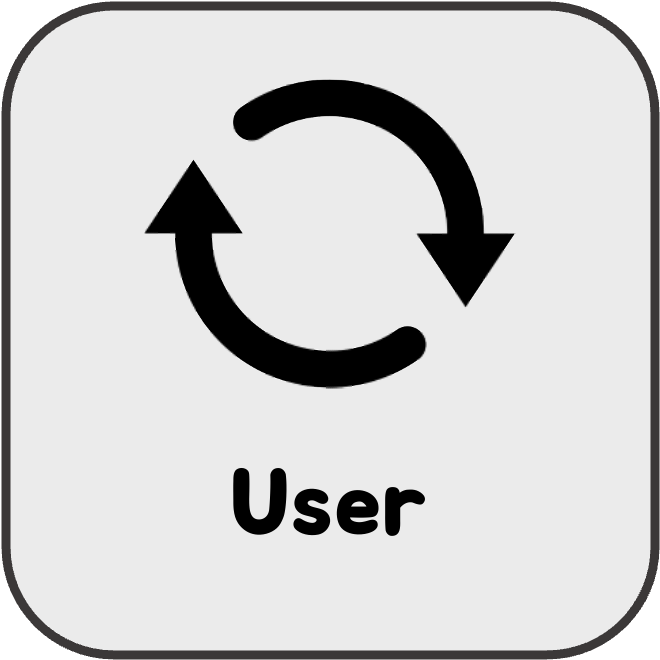
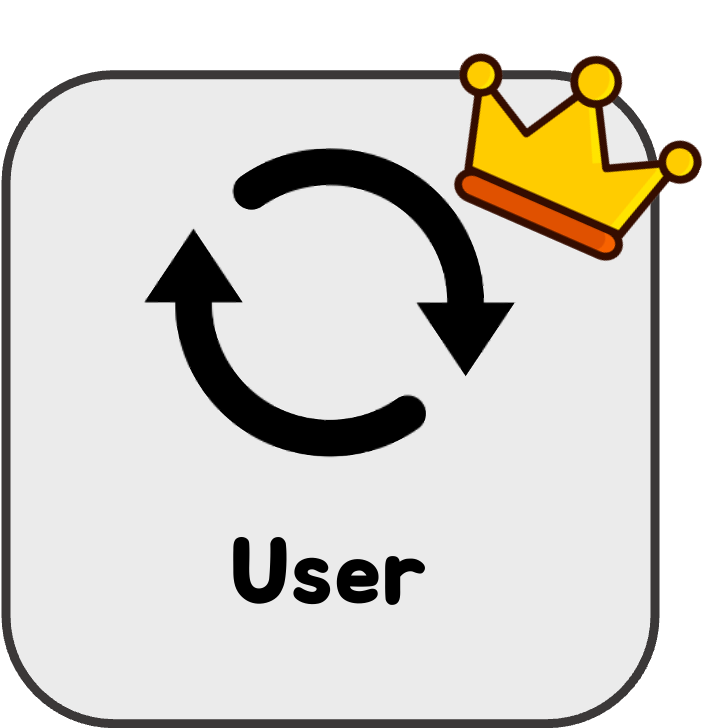
이미지 가운데 이동으로인한 crop 수정, 결제창, 프리미엄 아이콘 업뎃

diff --git a/photoeditor.py b/photoeditor.py
@@ -23,13 +23,13 @@ current_image = None
 undo_history, redo_history = [], []
 start_x, start_y = None, None
 convert = 0
-dot_positions = []
 crop_start_x, crop_start_y = None, None
 crop_end_x, crop_end_y = None, None
 current_x, current_y = None, None
 image_captured = None
 cursor = 1
 userid, username, userversion = None, None, None
+x_offset, y_offset = 0, 0
 
 
 def photoeditormain(id="admin", name="관리자", version="Premium"):
@@ -195,6 +195,7 @@ def photoeditormain(id="admin", name="관리자", version="Premium"):
             return file_path
 
     def center_image_on_canvas(canvas, image_tk):
+        global x_offset, y_offset
         # 캔버스의 크기 가져오기
         canvas_width = canvas.winfo_width()
         canvas_height = canvas.winfo_height()
@@ -209,6 +210,8 @@ def photoeditormain(id="admin", name="관리자", version="Premium"):
 
         # 이미지를 캔버스 중앙에 배치
         canvas.coords(image_layer, x, y)
+        x_offset = -x
+        y_offset = -y
 
     def update_image(new_image):
         global image_tk, layer_ids, current_image, image_size, image_layer
@@ -298,7 +301,7 @@ def photoeditormain(id="admin", name="관리자", version="Premium"):
             canvas.create_rectangle(crop_start_x, crop_start_y, current_x, current_y, outline='black', tags='rectangle')
 
     def drag(event):
-        global dot_positions, crop_start_x, crop_start_y, current_x, current_y
+        global crop_start_x, crop_start_y, current_x, current_y
         # 현재 마우스 위치 저장
         current_x, current_y = event.x, event.y
         draw_rectangle()
@@ -339,12 +342,17 @@ def photoeditormain(id="admin", name="관리자", version="Premium"):
         canvas.bind("<ButtonRelease-1>", released)  # 마우스 왼쪽 버튼을 놓았을 때 crop 종료 좌표를 기록하고, 해당 영역을 잘라냅니다.
 
     def image_crop():
-        global crop_start_x, crop_start_y, crop_end_x, crop_end_y, cursor
+        global crop_start_x, crop_start_y, crop_end_x, crop_end_y, cursor, x_offset, y_offset
         if crop_start_x is not None and crop_start_y is not None and crop_end_x is not None and crop_end_y is not None:
             min_x = min(crop_start_x, crop_end_x)
             max_x = max(crop_start_x, crop_end_x)
             min_y = min(crop_start_y, crop_end_y)
             max_y = max(crop_start_y, crop_end_y)
+
+            min_x += x_offset
+            max_x += x_offset
+            min_y += y_offset
+            max_y += y_offset
 
             cropped_image = current_image.crop((min_x, min_y, max_x, max_y))
             update_image(cropped_image)
@@ -686,9 +694,9 @@ def photoeditormain(id="admin", name="관리자", version="Premium"):
     create_button(button1_frame, "icon//icon_rotate45CCW.png", 90, rotate_45CCW, 125, 35)
     create_button(button1_frame, "icon//icon_rotate90CW.png", 90, rotate_90CW, 25, 135)
     create_button(button1_frame, "icon//icon_rotate90CCW.png", 90, rotate_90CCW, 125, 135)
-    create_button(button1_frame, "icon//icon_rotateuser.png", 90, rotate_user, 225, 75)
+    create_button(button1_frame, "icon//icon_rotateuser.png", 95, rotate_user, 225, 75)
     angle_entry = Entry(button1_frame, width=10, background="gray")
-    angle_entry.place(x=233, y=170)
+    angle_entry.place(x=233, y=180)
 
     create_title(button1_frame, "Adjust Brightness", 233)
     create_line(button1_frame, 257)
